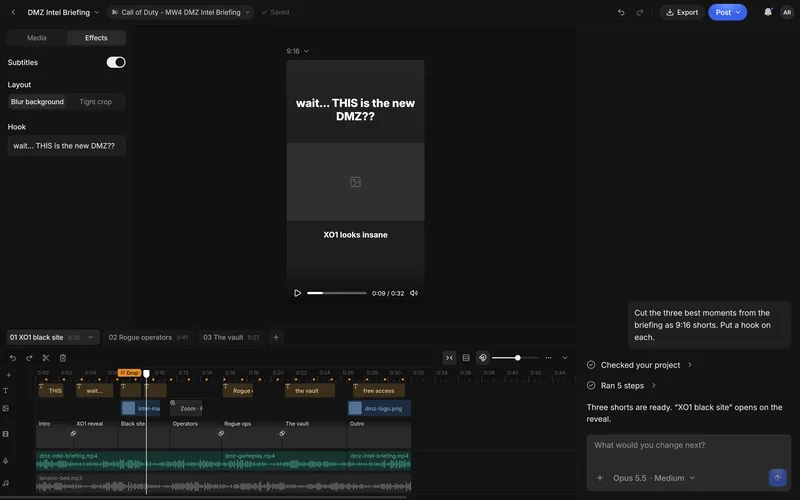
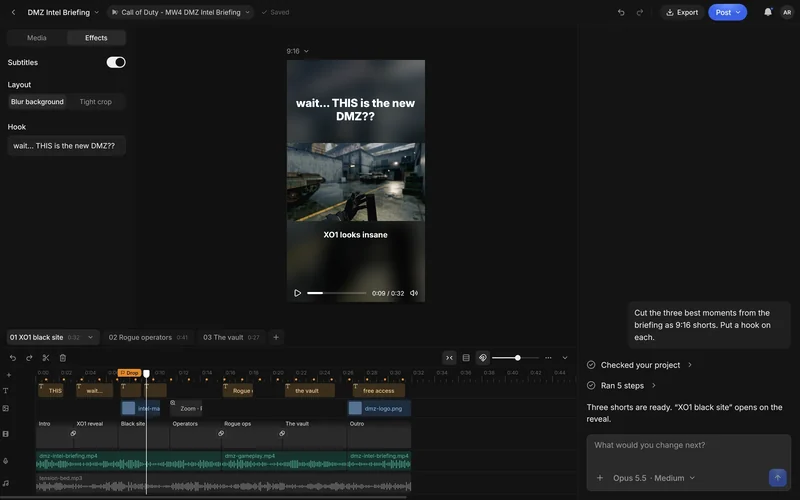
Landing: one hero button, navbar on the page column, framed screenshots, closed FAQ (#296)
* Landing: remove "See how it works" from the hero

* Landing: wider hero start button

* Landing: navbar content follows the page max width

* Landing: drop the repeated credit line under the hero shot

* Landing: editor screenshot shows real DMZ gameplay in the preview

* Landing: card frames so screenshots and sections stand apart from the page

* Landing: FAQ answers start closed

* Landing: changelog covers every change in the pull request

Changed region(s): [[0.3438, 0.12, 0.5312, 0.48], [0.4062, 0.48, 0.5312, 0.63]]

diff --git a/app/landing.css b/app/landing.css
@@ -34,11 +34,12 @@ html:has(main.landing){scroll-behavior:auto}
 .landing-heading{display:flex;flex-direction:column;align-items:center;gap:14px;max-width:100%;text-align:center}
 .landing-heading h2{font:600 48px/1.1 var(--l-head);letter-spacing:-.035em;color:#fff;text-wrap:balance}
 .landing-heading p{font-size:18px;line-height:1.5;color:var(--l-fg-2);text-wrap:balance}
-.landing-shot{overflow:hidden;border:1px solid var(--l-border);border-radius:16px;background:#151515}
-.landing-shot img{display:block;width:100%;height:auto}
+/* A screenshot sits in a lighter frame so its dark page does not melt into the landing background. */
+.landing-shot{padding:10px;border:1px solid var(--l-border);border-radius:24px;background:var(--l-bg-subtle)}
+.landing-shot img{display:block;width:100%;height:auto;border:1px solid var(--l-border);border-radius:14px}
 
 /* Top bar */
-.landing-nav{position:sticky;top:0;z-index:40;height:68px;display:flex;align-items:center;justify-content:space-between;gap:16px;padding-inline:48px;border-bottom:1px solid var(--l-border);background:#111;font-family:var(--l-body);color:#fff}
+.landing-nav{position:sticky;top:0;z-index:40;height:68px;display:flex;align-items:center;justify-content:space-between;gap:16px;padding-inline:max(var(--l-gutter),calc((100% - var(--l-content))/2));border-bottom:1px solid var(--l-border);background:#111;font-family:var(--l-body);color:#fff}
 .landing-nav .landing-brand,.landing-footer-brand strong{font:600 18px/1 var(--l-body);letter-spacing:-.02em;color:#fff}
 .landing-nav-right{display:flex;align-items:center;gap:8px}
 .landing-nav-link{padding-inline:14px;font-size:15px;line-height:36px;color:var(--l-fg-2)}
@@ -50,8 +51,7 @@ html:has(main.landing){scroll-behavior:auto}
 .landing-hero h1{font:600 96px/1 var(--l-head);letter-spacing:-.045em}
 .landing-hero-copy>p{width:660px;max-width:100%;font-size:22px;line-height:1.55;color:var(--l-fg-2)}
 .landing-hero-actions{display:flex;align-items:center;justify-content:center;flex-wrap:wrap;gap:12px;padding-top:12px}
-.landing-hero-actions .landing-button{font-size:15px}
-.landing-hero-shot figcaption{margin-top:24px;text-align:center;font-size:14px;color:var(--l-fg-3)}
+.landing-hero-actions .landing-button{padding-inline:48px;font-size:15px}
 
 /* How it works */
 .landing-how{display:flex;flex-direction:column;gap:56px;padding-bottom:140px}
@@ -62,8 +62,10 @@ html:has(main.landing){scroll-behavior:auto}
 .landing-step p{font-size:16px;line-height:1.4;color:var(--l-fg-2)}
 
 /* Product blocks: copy and screenshot side by side, the middle block mirrored. */
-.landing-product{display:flex;flex-direction:column;gap:140px;padding-bottom:140px}
-.landing-product-block{display:grid;grid-template-columns:minmax(0,1fr) minmax(0,2fr);align-items:center;gap:60px}
+.landing-product{display:flex;flex-direction:column;gap:24px;padding-bottom:140px}
+/* Each block is a card; its screenshot is the darker card nested inside. */
+.landing-product-block{display:grid;grid-template-columns:minmax(0,1fr) minmax(0,2fr);align-items:center;gap:60px;padding:48px;background:var(--l-bg-subtle);border:1px solid var(--l-border);border-radius:28px}
+.landing-product-block .landing-shot{padding:0;border:0;border-radius:14px;background:none}
 .landing-product-block:nth-child(even){grid-template-columns:minmax(0,2fr) minmax(0,1fr)}
 .landing-product-block:nth-child(even) .landing-product-copy{order:2}
 .landing-product-copy{display:flex;flex-direction:column;align-items:flex-start}
@@ -90,7 +92,7 @@ html:has(main.landing){scroll-behavior:auto}
 .landing-plan footer .landing-button{font-size:15px}
 .landing-plan footer small{font-size:14px;color:var(--l-fg-2)}
 
-/* Questions: a shadcn accordion with every answer open by default. */
+/* Questions: a shadcn accordion, closed by default, one answer open at a time. */
 .landing-faq{display:flex;flex-direction:column;align-items:center;gap:40px;padding-bottom:160px}
 .landing-faq-list{width:880px;max-width:100%;border-block:1px solid var(--l-border)}
 .landing-faq-list [data-slot=accordion-item]{border-color:var(--l-border)}
@@ -128,7 +130,7 @@ html:has(main.landing){scroll-behavior:auto}
   .landing-hero h1{font-size:72px}
   .landing-product,.landing-how,.landing-pricing,.landing-final{padding-bottom:104px}
   .landing-faq{padding-bottom:112px}
-  .landing-product{gap:88px}
+  .landing-product{gap:20px}
   .landing-product-block,.landing-product-block:nth-child(even){grid-template-columns:minmax(0,1fr);gap:32px}
   .landing-product-block:nth-child(even) .landing-product-copy{order:0}
   .landing-product-copy{max-width:560px}
@@ -144,12 +146,14 @@ html:has(main.landing){scroll-behavior:auto}
   .landing-hero-copy{gap:20px}
   .landing-hero h1{font-size:46px}
   .landing-hero-copy>p{font-size:17px;text-wrap:balance}
-  .landing-hero-shot figcaption{margin-top:16px;font-size:13px}
-  .landing-shot{border-radius:10px}
+  .landing-shot{padding:6px;border-radius:16px}
+  .landing-shot img{border-radius:10px}
+  .landing-product-block{padding:20px;border-radius:20px}
+  .landing-product-block .landing-shot{border-radius:10px}
   .landing-how{gap:36px}
   .landing-steps{grid-template-columns:minmax(0,1fr)}
   .landing-product,.landing-how,.landing-pricing,.landing-final,.landing-faq{padding-bottom:80px}
-  .landing-product{gap:64px}
+  .landing-product{gap:16px}
   .landing-product-block,.landing-product-block:nth-child(even){gap:24px}
   .landing-product-copy h2{font-size:28px}
   .landing-product-copy p{font-size:16px}

diff --git a/components/landing/faq.tsx b/components/landing/faq.tsx
@@ -11,7 +11,7 @@ const questions = [
   ['Can I cancel?', `Yes, anytime. The first ${EDITOR_PLAN.trialDays} days are free.`],
 ];
 
-/** Every answer starts open, so the server-rendered page reads in full before any script runs. */
+/** Answers start closed and open one at a time; search engines read them from the FAQ data below. */
 export function LandingFaq() {
   return <LandingSection id="faq" className="landing-faq" headingId="landing-faq-heading">
     <script type="application/ld+json" dangerouslySetInnerHTML={{ __html: JSON.stringify({
@@ -22,7 +22,7 @@ export function LandingFaq() {
       })),
     }).replace(/</g, '\\u003c') }} />
     <LandingHeading id="landing-faq-heading" title="Questions" />
-    <Accordion type="multiple" defaultValue={questions.map(([question]) => question)} className="landing-faq-list">
+    <Accordion type="single" collapsible className="landing-faq-list">
       {questions.map(([question, answer]) => <AccordionItem key={question} value={question}>
         <AccordionTrigger>{question}</AccordionTrigger>
         <AccordionContent><p>{answer}</p></AccordionContent>

diff --git a/components/landing/hero.tsx b/components/landing/hero.tsx
@@ -1,6 +1,5 @@
-import { ArrowDown } from 'lucide-react';
 import { LandingStartButton } from './start-button';
-import { LandingButton, LandingSection, LandingShot } from './ui';
+import { LandingSection, LandingShot } from './ui';
 
 export function LandingHero() {
   return <LandingSection className="landing-hero" headingId="landing-hero-heading">
@@ -9,12 +8,10 @@ export function LandingHero() {
       <p>Revline finds campaigns that pay per view, cuts the clips with AI, and posts them to your accounts.</p>
       <div className="landing-hero-actions">
         <LandingStartButton />
-        <LandingButton href="#how-it-works" variant="quiet">See how it works<ArrowDown size={16} aria-hidden="true" /></LandingButton>
       </div>
     </div>
     <figure className="landing-hero-shot">
       <LandingShot name="campaigns" layout="wide" priority alt="The Campaigns page in Revline: a grid of clipping campaigns, each card showing its rate per 1K views and the budget left." />
-      <figcaption>Campaigns from Content Rewards</figcaption>
     </figure>
   </LandingSection>;
 }

diff --git a/docs/changelog.d/2026-11-10-landing-remove-how-link.md b/docs/changelog.d/2026-11-10-landing-remove-how-link.md
@@ -1,0 +1,2 @@
+- Landing: the hero has one wider start button and no repeated credit line, the navbar lines up with the 1200px page column, and FAQ answers start closed. Why: the founder asked for each; the hero had two actions.
+- Landing: screenshots and product blocks sit in card frames, and the editor shot shows real gameplay. Why: the founder said the dark screenshots melted into the page.
